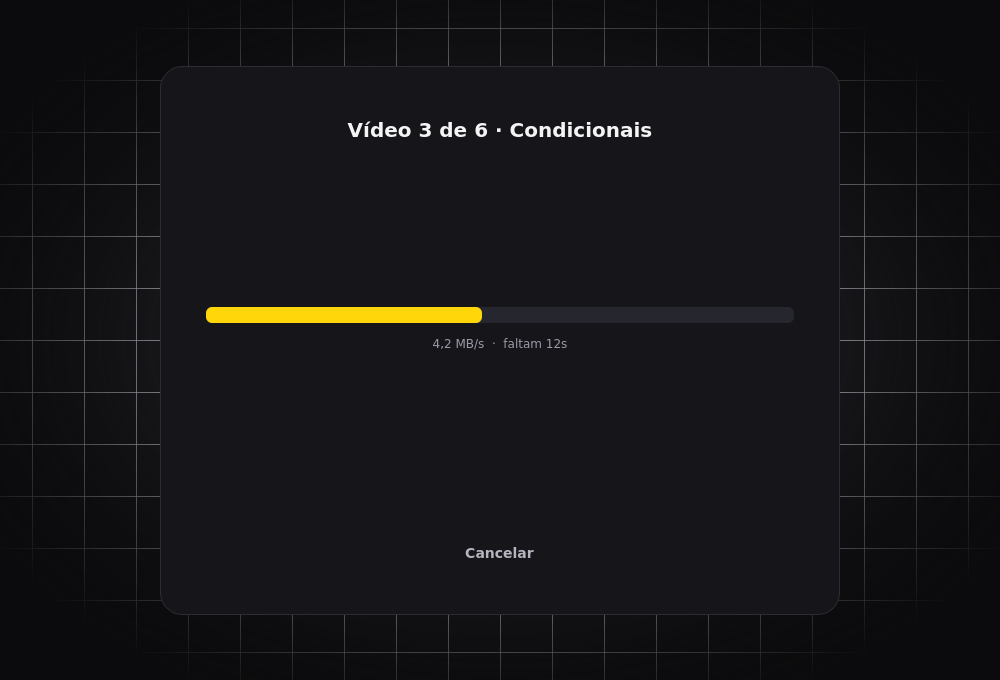
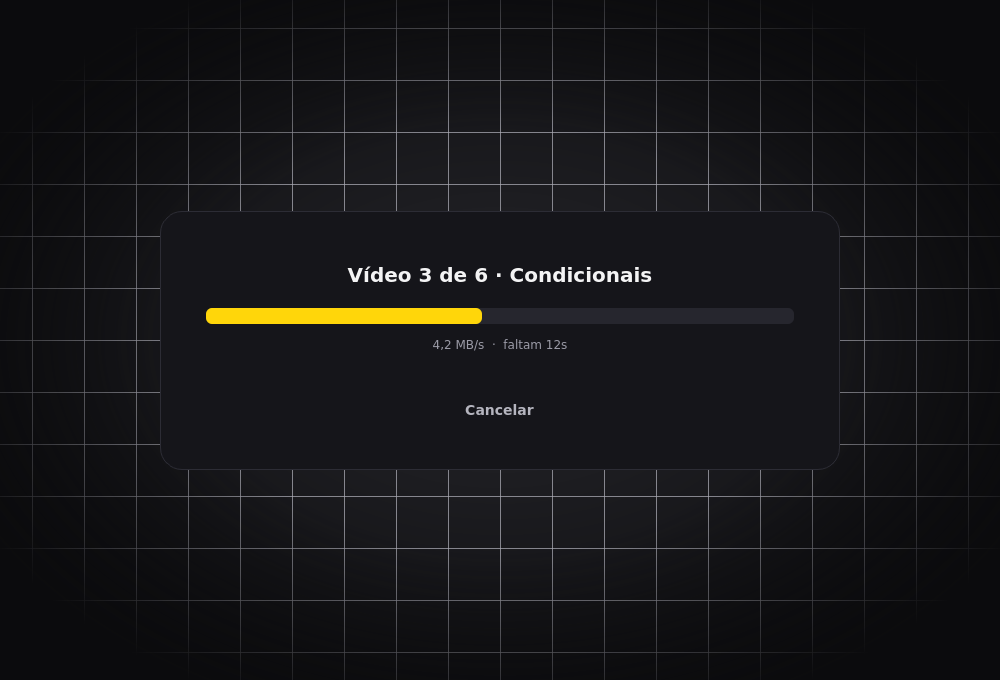
Corrige altura do cartão ao trocar de tela; atualiza imagens do README

diff --git a/teasertube/gui.py b/teasertube/gui.py
@@ -8,7 +8,7 @@ import threading
 import urllib.request
 from pathlib import Path
 
-from PySide6.QtCore import QPointF, QRectF, QSettings, QSize, Qt, QThread, Signal
+from PySide6.QtCore import QPointF, QRectF, QSettings, QSize, Qt, QThread, QTimer, Signal
 from PySide6.QtGui import (
     QBrush,
     QColor,
@@ -310,17 +310,21 @@ class MainWindow(QWidget):
 
     # ----- navegação --------------------------------------------------------
     def _fit_stack(self, _index: int = 0) -> None:
-        """A altura do cartão acompanha só a página visível."""
-        for i in range(self.stack.count()):
-            current = i == self.stack.currentIndex()
-            self.stack.widget(i).setSizePolicy(
-                QSizePolicy.Preferred, QSizePolicy.Preferred if current else QSizePolicy.Ignored
-            )
-        self.card.adjustSize()
+        """A altura do cartão acompanha só a página visível (o QStackedWidget usa a maior)."""
+        page = self.stack.currentWidget()
+        lay = page.layout()
+        width = self.card.width() - 72
+        height = lay.totalHeightForWidth(width) if lay.hasHeightForWidth() else 0
+        self.stack.setFixedHeight(max(height, lay.totalSizeHint().height()))
+        card_layout = self.card.layout()
+        card_layout.invalidate()
+        card_layout.activate()
+        self.card.setFixedHeight(card_layout.sizeHint().height())
 
     def _show(self, page: QWidget) -> None:
         self.stack.setCurrentWidget(page)
         self._fit_stack()
+        QTimer.singleShot(0, self._fit_stack)  # reajusta depois que o Qt calcula os tamanhos
 
     # ----- páginas ----------------------------------------------------------
     def _build_home(self) -> QWidget:
@@ -564,6 +568,7 @@ class MainWindow(QWidget):
         self.home_error.setText(msg)
         self.home_error.show()
         self._show(self.p_home)
+        self._fit_stack()
 
     def _on_info_error(self, msg: str) -> None:
         self._home_error(msg or "Não foi possível ler esse link.")

diff --git a/tools/make_screenshots.py b/tools/make_screenshots.py
@@ -3,6 +3,7 @@
 Uso (na raiz do repositório):  QT_QPA_PLATFORM=offscreen python tools/make_screenshots.py
 Os dados são fictícios; nenhuma miniatura real é usada.
 """
+import os
 import sys
 from pathlib import Path
 
@@ -41,7 +42,7 @@ def main() -> None:
     w.folder = "~/Downloads/TeaserTube"
     w.resize(1000, 680)
     w.show()
-    app.processEvents()
+    app.processEvents(); app.processEvents()
     w.grab().save(str(OUT / "home.png"))
 
     info = core.MediaInfo(
@@ -54,14 +55,17 @@ def main() -> None:
     w._on_info((info, fake_thumb()))
     for i in (6, 7):
         w.pl_list.item(i).setCheckState(gui.Qt.Unchecked)
-    app.processEvents()
+    app.processEvents(); app.processEvents()
     w.grab().save(str(OUT / "playlist.png"))
 
+    app.processEvents()
     w._on_progress(core.Progress("Vídeo 3 de 6 · Condicionais", 47.0, "4,2 MB/s  ·  faltam 12s"))
     w._show(w.p_progress)
-    app.processEvents()
+    app.processEvents(); app.processEvents()
     w.grab().save(str(OUT / "progress.png"))
     print("imagens em", OUT)
+    sys.stdout.flush()
+    os._exit(0)  # evita um aviso inofensivo do Qt ao encerrar
 
 
 if __name__ == "__main__":
